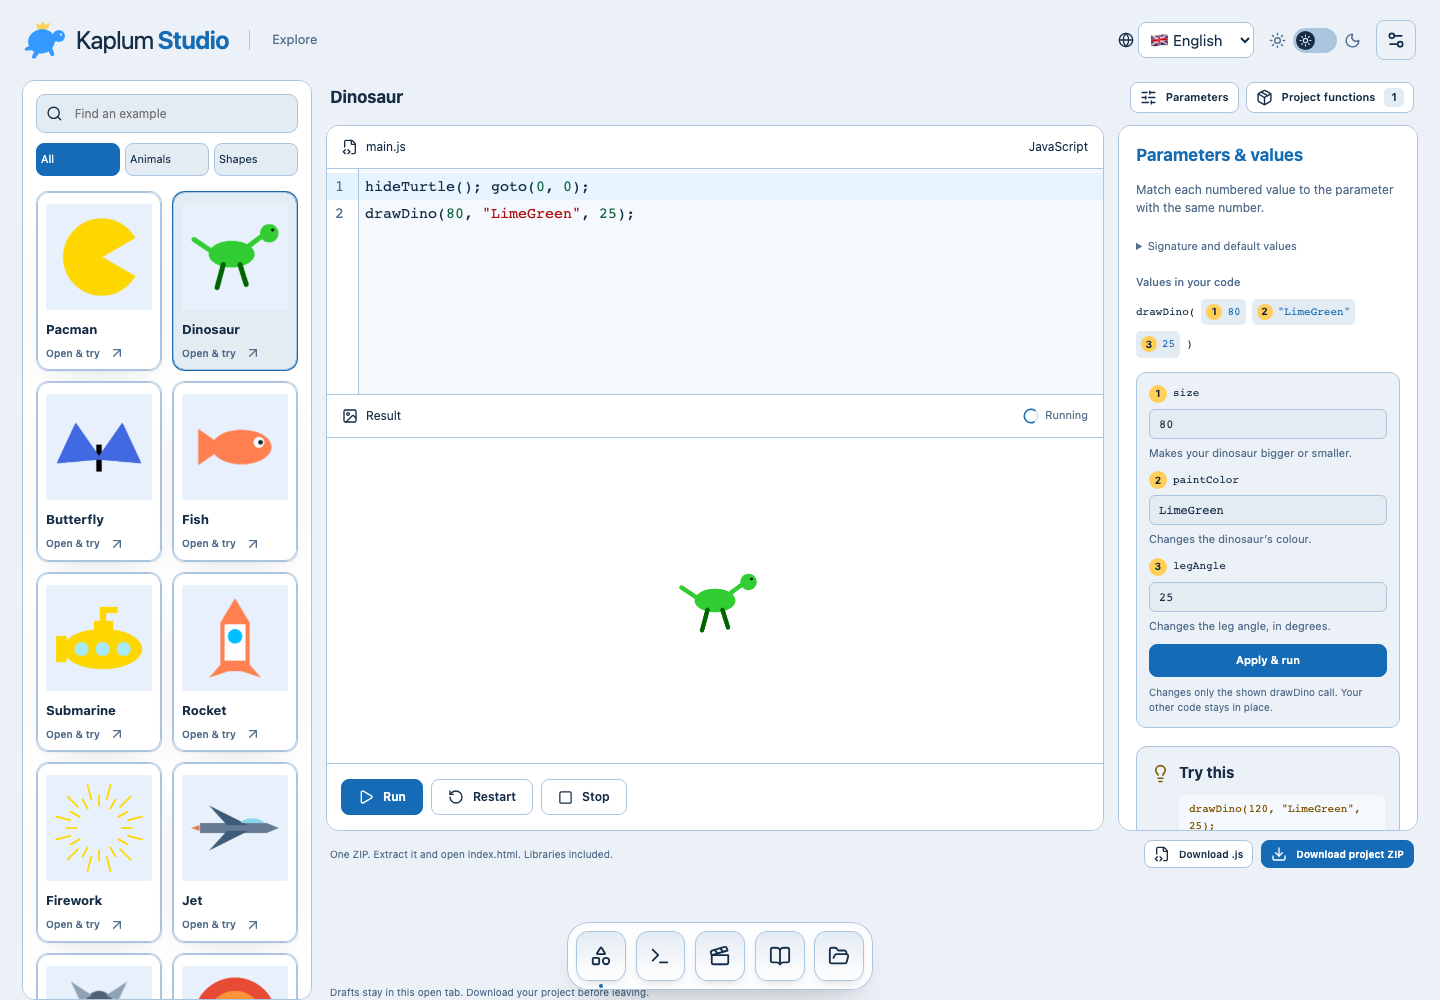
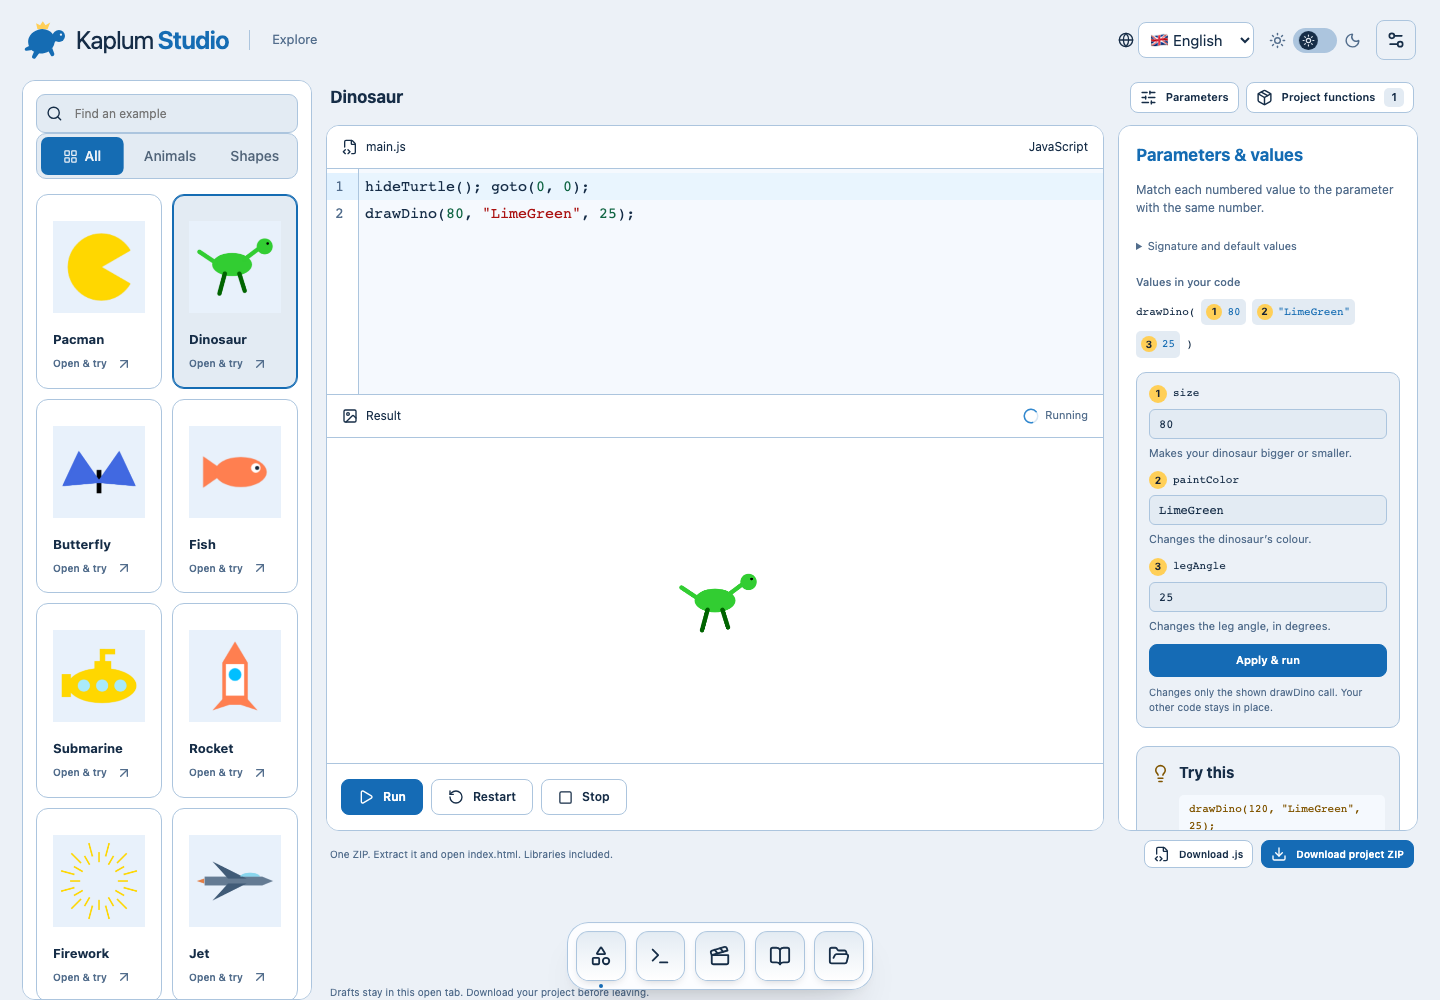
Align release checks and screenshots with the accepted Studio UI

diff --git a/tests/studio.spec.js b/tests/studio.spec.js
@@ -27,7 +27,8 @@ test("React gallery keeps complete inventory, navigation, search and explanation
   await page.getByRole("searchbox").fill("drawDino");
   await expect(page.locator(".example-card")).toHaveCount(1);
   await expect(page.locator(".example-card")).toContainText("legAngle");
-  await page.getByRole("link", { name: "Explore parameters", exact: true }).click();
+  await expect(page.getByRole("slider", { name: "legAngle slider", exact: true })).toBeVisible();
+  await expect(page).toHaveURL(/#figures$|\/$/);
   await page.getByRole("link", { name: "Open in Studio", exact: true }).click();
   await expect(page.locator("h1")).toHaveText("Dinosaur");
   await expect(page.locator(".explanation-pane")).toContainText("legAngle");
@@ -203,7 +204,8 @@ test("production screenshots for dark/light, settings and narrow review", async 
 }) => {
   await page.setViewportSize({ width: 1440, height: 1000 });
   await page.goto("/#figures");
-  await expect(page.locator(".catalogue-preview canvas").first()).toBeVisible();
+  await expect(page.locator(".catalogue-preview").first()).toHaveAttribute("data-drawn", "true");
+  await expect(page.locator(".example-card").first()).toHaveCSS("opacity", "1");
   await page.screenshot({ path: "docs/images/kaplum-next-dark.png" });
   await page.goto("/#figure/figur-dino");
   await expect(page.locator("#status")).toHaveText("Running");
@@ -225,7 +227,7 @@ test("production screenshots for dark/light, settings and narrow review", async 
   await page.getByRole("radio", { name: "Result", exact: true }).click();
   await expect
     .poll(() =>
-      page.locator(".rubber-segment__thumb").evaluate((el) => {
+      page.locator(".mobile-tabs .rubber-segment__thumb").evaluate((el) => {
         const left = el.style.clipPath.match(/inset\([^)]*? ([\d.]+)px round/);
         return left ? Number(left[1]) : 0;
       }),

diff --git a/docs/project-status.md b/docs/project-status.md
@@ -14,12 +14,12 @@ This is a separate release snapshot. The original development repository remains
 
 ## Verification at handoff
 
-Production build and whitespace checks passed. Relevant browser checks passed in Chromium and Firefox for inline angle/colour changes, reset, pause, Studio handoff, responsive layout, category keyboard interaction, search, theme borders and reduced motion. Desktop dark/light and mobile layouts were visually reviewed. These are targeted checks, not a new full-suite run.
+Production build and whitespace checks passed. Relevant browser checks passed in Chromium and Firefox for inline angle/colour changes, reset, pause, Studio handoff, responsive layout, category keyboard interaction, search, theme borders and reduced motion. Desktop dark/light and mobile layouts were visually reviewed. At release closeout, the complete suite passed locally: 31 Chromium and 31 Firefox tests, including engine contracts and real offline ZIP execution. Two outdated UI test assumptions were corrected; screenshot capture now waits for a rendered preview. GitHub CI is checked separately.
 
 ## Resume
 
-Start by checking the current checkout and runtime, then agree on the next bounded change. Curriculum content, broader language completion and publication/deployment remain future work. Preserve original course sources and local tracker files.
+Start by checking the current checkout and runtime, then agree on the next bounded change. Curriculum content, broader language completion and website deployment remain future work. Source publication is complete. Preserve original course sources and local tracker files.
 
 ## Helper authorship clarification
 
-On 12 October 2026, the owner confirmed that `engine/functions.js` contains helpers he created with Codex assistance. The source header, README and third-party notices now record their project MIT licensing. The historical teaching-fork engine and third-party component licences remain separate concerns. This documentation update does not resume feature development or authorize public release.
+On 12 October 2026, the owner confirmed that `engine/functions.js` contains helpers he created with Codex assistance. The source header, README and third-party notices now record their project MIT licensing. The historical teaching-fork engine and third-party component licences remain separate concerns. Feature development remains paused; source publication was subsequently authorized and completed in this separate repository.

diff --git a/docs/readme/README.de.md b/docs/readme/README.de.md
@@ -76,7 +76,7 @@ Der eigene Code von Kaplum Studio steht unter der [MIT-Lizenz](../../LICENSE).
 
 Einige Teile stammen aus anderen Projekten und behalten ihre eigenen Lizenzen:
 
-- `engine/library.js` ist ein neu implementierter Canvas-Turtle-Kern unter MIT. Er ersetzt den angepassten Unterrichts-Fork und dessen RGB-Parser. Für die Zeichenhelfer in `engine/functions.js` bleibt vor einer öffentlichen Veröffentlichung eine separate Herkunftsprüfung offen. Die ältere Git-Historie enthält den vorherigen Kern; dessen Hinweise bleiben in [THIRD_PARTY_NOTICES.txt](../../THIRD_PARTY_NOTICES.txt) erhalten.
+- `engine/library.js` ist ein neu implementierter Canvas-Turtle-Kern unter MIT. Er ersetzt den angepassten Unterrichts-Fork und dessen RGB-Parser. Die Zeichenhelfer in `engine/functions.js` wurden vom Autor mit Codex erstellt und stehen unter MIT. Dieses öffentliche Repository enthält keine alte Unterrichts-Engine oder deren Git-Historie. Die Lizenzhinweise der verwendeten Fremdkomponenten stehen in [THIRD_PARTY_NOTICES.txt](../../THIRD_PARTY_NOTICES.txt).
 - Die React-Bits-Komponenten in `components/react-bits/` stehen unter MIT + Commons Clause. Siehe [deren Lizenz](../../components/react-bits/LICENSE.md).
 - Die npm-Abhängigkeiten sind in `THIRD_PARTY_NOTICES.txt` aufgeführt.
 

diff --git a/README.md b/README.md
@@ -10,7 +10,7 @@ Kaplum Studio is a visual JavaScript Turtle studio for children who are new to p
 
 It grew out of teaching beginner programming courses, where the hardest part was rarely the idea of a function call. It was connecting `drawDino(80, "LimeGreen", 25)` to *which number does what*.
 
-![Kaplum Studio: example library, code editor above the live canvas and the parameter inspector](docs/images/kaplum-next-dark.png)
+![Kaplum Studio: three-column figure catalogue with live previews and inline parameter controls](docs/images/kaplum-next-dark.png)
 
 ## What it does
 
